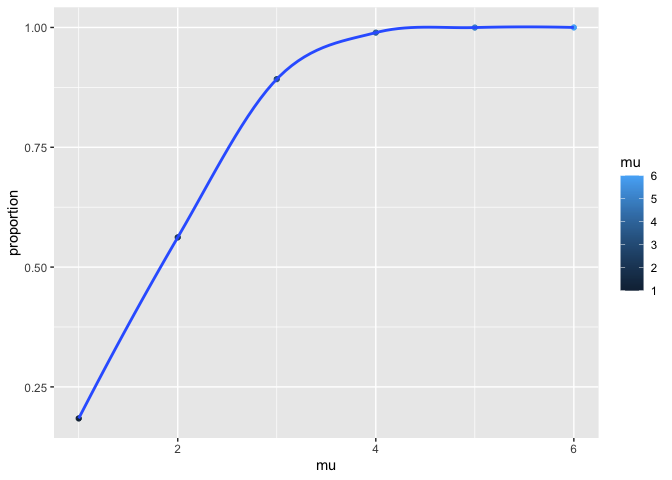
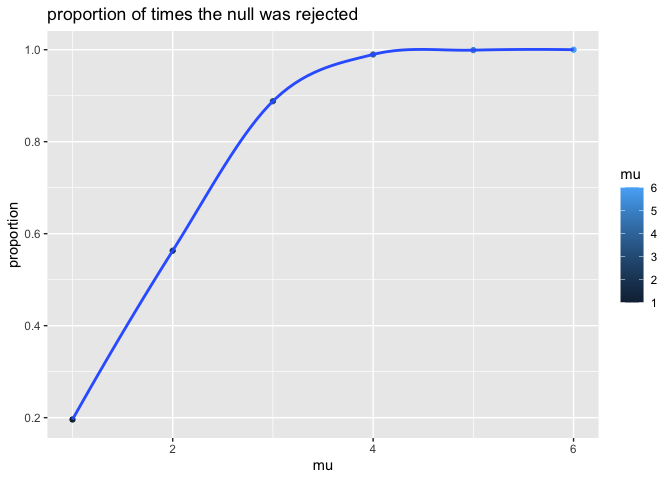
further inpretation of the codes

diff --git a/p8105_hw5_xz3032.md b/p8105_hw5_xz3032.md
@@ -115,18 +115,18 @@ path_df =
          data = map(.x = path, ~read_csv(.x))
   ) %>%
   mutate(
-    id = substr(path, 10, 15)
+    id = substr(path, 10, 15)  # substring "path" variable and only left with arm and subject id
   ) %>%
   unnest(data) %>%
   janitor::clean_names() %>%
-  pivot_longer(
+  pivot_longer(           # tidy the data by combining week variables
     week_1:week_8,
     names_to = "week",
     values_to = "value"
   ) %>%
   select(-path) %>%
   mutate(
-    week = substr(week, 6, 6),
+    week = substr(week, 6, 6),   #substring the week variable to only numbers and convert to numeric type
     week = as.numeric(week)
     )
 ```
@@ -361,11 +361,14 @@ path_df %>%
 ```
 
 ![](p8105_hw5_xz3032_files/figure-gfm/unnamed-chunk-8-1.png)<!-- -->
+Comment: Control arm generally have lower value than experiment arm. The
+observation value for both control and experiment arm fluctuate over
+time but has a lightly increasing trend, especially for experiment arm.
 
 ## Problem 3
 
 ``` r
-ttest = function(mu) {
+ttest = function(mu) {         #write a function with input of mu and output of t test of a normal sample with n = 30, sd =5
   sample = tibble(x = rnorm(30, mean = mu, sd = 5))
   sample %>%
     t.test(mu = 0, alternative = "two.sided", conf.level = 0.95) %>%
@@ -373,18 +376,18 @@ ttest = function(mu) {
     select(estimate, p.value)
 }
 
-ttest(0)
+ttest(0)  # try the function with input of mu=0
 ```
 
     ## # A tibble: 1 x 2
     ##   estimate p.value
     ##      <dbl>   <dbl>
-    ## 1    -1.27   0.149
+    ## 1   0.0892   0.931
 
 Iterate for 5000 times
 
 ``` r
-sim_mu0 = rerun(5000, ttest(0)) %>%
+sim_mu0 = rerun(5000, ttest(0)) %>%  # iterate 5000 times for the function with input  mu=0
   bind_rows()
 ```
 
@@ -392,12 +395,12 @@ Repeat the above for μ={1,2,3,4,5,6}
 
 ``` r
 sim_diff_mu = 
-  tibble(mu = c(1, 2, 3, 4, 5, 6)) %>%
+  tibble(mu = c(1, 2, 3, 4, 5, 6)) %>%  # create a data frame with different mu and corresponding t test
   mutate(
-    t_output = map(.x = mu, ~rerun(5000,ttest(.x))),
-    mean_pvalue = map(t_output, bind_rows)
+    t_output = map(.x = mu, ~rerun(5000,ttest(.x))),    #rerun the test for different u each for 5000 times
+    mean_pvalue = map(t_output, bind_rows)  
   ) %>%
-  unnest(mean_pvalue) %>%
+  unnest(mean_pvalue) %>%      
   select(-t_output)
 ```
 
@@ -407,10 +410,10 @@ Make a plot showing the proportion of times the null was rejected
 power = sim_diff_mu %>%
   mutate(
     decision = case_when(p.value < 0.05 ~ "reject", p.value >= 0.05 ~ "accept")
-  ) %>%
-  group_by(mu) %>%
+  ) %>%   #create another variable indicate the decision
+  group_by(mu) %>%  
   summarize(
-    total_reject = sum(decision == "reject")
+    total_reject = sum(decision == "reject")   #calculate total rejection # for each mu
   ) %>%
   mutate(
     proportion = total_reject/5000
@@ -421,7 +424,7 @@ power = sim_diff_mu %>%
 
 ``` r
 power_plot = power %>%
-  ggplot(aes(x = mu, y = proportion, color = mu)) + geom_point() + geom_smooth()
+  ggplot(aes(x = mu, y = proportion, color = mu)) + geom_point() + geom_smooth() + labs(title = "proportion of times the null was rejected")
 
 power_plot
 ```
@@ -442,6 +445,10 @@ power_plot
     ## Inf
 
 ![](p8105_hw5_xz3032_files/figure-gfm/unnamed-chunk-12-1.png)<!-- -->
+Comment:As effect size increase, the proportion of times that null was
+rejected increases as well. The association between effect size and
+power has a relationship similar to logarithim. Power will approach 1 as
+effect size increase.
 
 Make a plot showing the average estimate of mu on the y axis and the
 true value of mu on the x axis.
@@ -450,7 +457,7 @@ true value of mu on the x axis.
 estimate = sim_diff_mu %>%
   group_by(mu) %>%
   summarize(
-    estimate_mu = mean(estimate)
+    estimate_mu = mean(estimate)  #calculating each average mu generated from 5000 samples 
   )
 ```
 
@@ -458,7 +465,7 @@ estimate = sim_diff_mu %>%
 
 ``` r
 plot1 = estimate %>%
-  ggplot(aes(x = mu, y = estimate_mu, color = mu)) + geom_point() + geom_smooth()
+  ggplot(aes(x = mu, y = estimate_mu, color = mu)) + geom_point() + geom_smooth() + labs(x = "true mean", y = "estimated mean based on 5000 sample mean")
 ```
 
 Make a second plot (or overlay on the first) the average estimate of μ̂
@@ -467,10 +474,10 @@ true value of μ on the x axis.
 
 ``` r
 reject_estimate = sim_diff_mu %>%
-  filter(p.value < 0.05) %>%
+  filter(p.value < 0.05) %>%  #only left with mu that rejected null hypothesis
   group_by(mu) %>%
   summarize(
-    reject_mean = mean(estimate)
+    reject_mean = mean(estimate) 
   )
 ```
 
@@ -478,9 +485,9 @@ reject_estimate = sim_diff_mu %>%
 
 ``` r
 plot2 = reject_estimate %>%
-  ggplot(aes(x = mu, y = reject_mean, color = mu)) + geom_point() + geom_smooth()
+  ggplot(aes(x = mu, y = reject_mean, color = mu)) + geom_point() + geom_smooth() + labs(x = "true mean", y = "estimated mean when H0 is rejected")
 
-plot1+plot2
+plot1 + plot2
 ```
 
     ## `geom_smooth()` using method = 'loess' and formula 'y ~ x'
@@ -514,3 +521,12 @@ plot1+plot2
     ## Inf
 
 ![](p8105_hw5_xz3032_files/figure-gfm/unnamed-chunk-14-1.png)<!-- -->
+Comment: Sample average mean across tests when the null is rejected is
+NOT equal to the true mean, but the relationship can shift based on the
+value of true mean. when the sample estimates mean is close to the null
+hypothesis value(mu = 0), for example when generating sample using mu =
+1, it is harder to reject the null when the standard deviation is 5. It
+requires a larger sample mu which deviate further from the null in order
+to reject H0. However, when mu=6 when generating sample , it is very
+easy to reject H0, and in this case, the true mean the estimated mean
+used to reject H0 will be almost equal.
